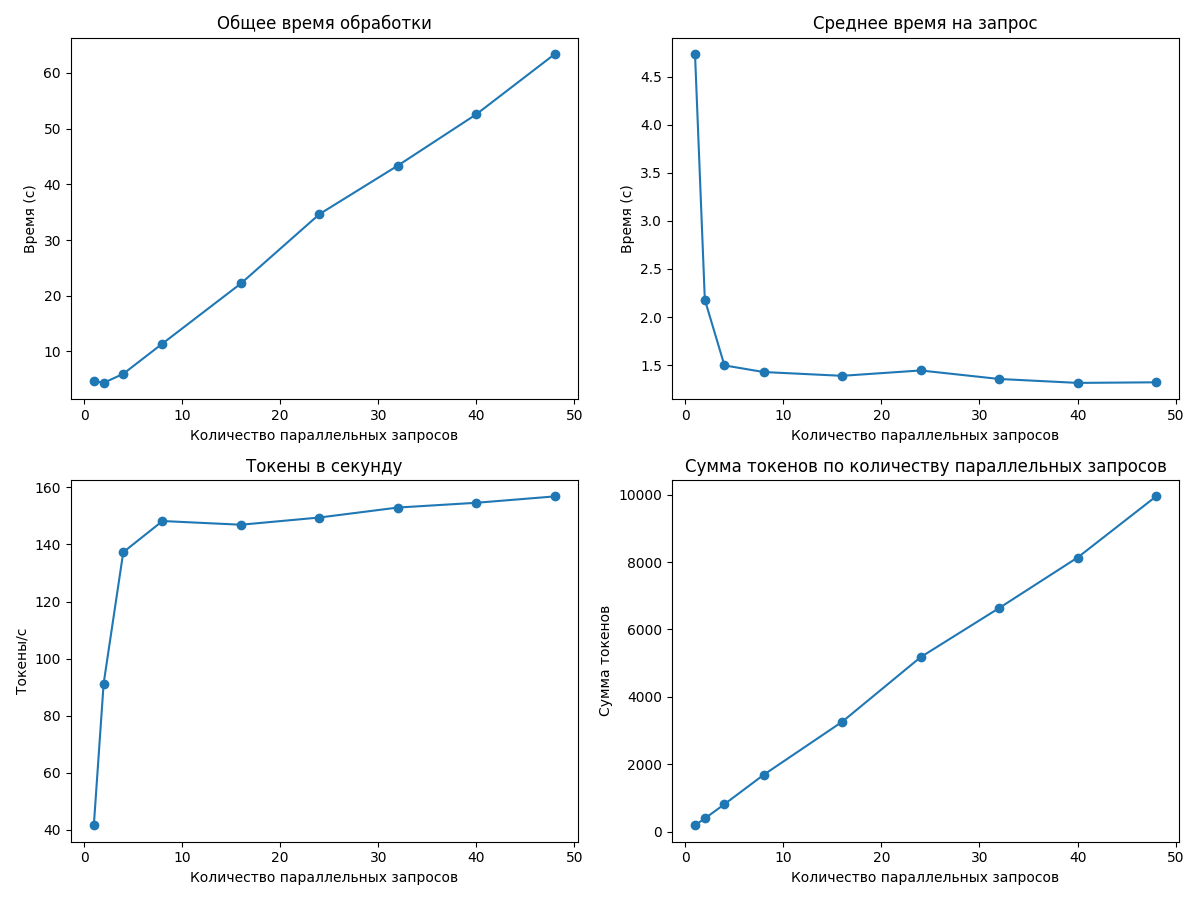
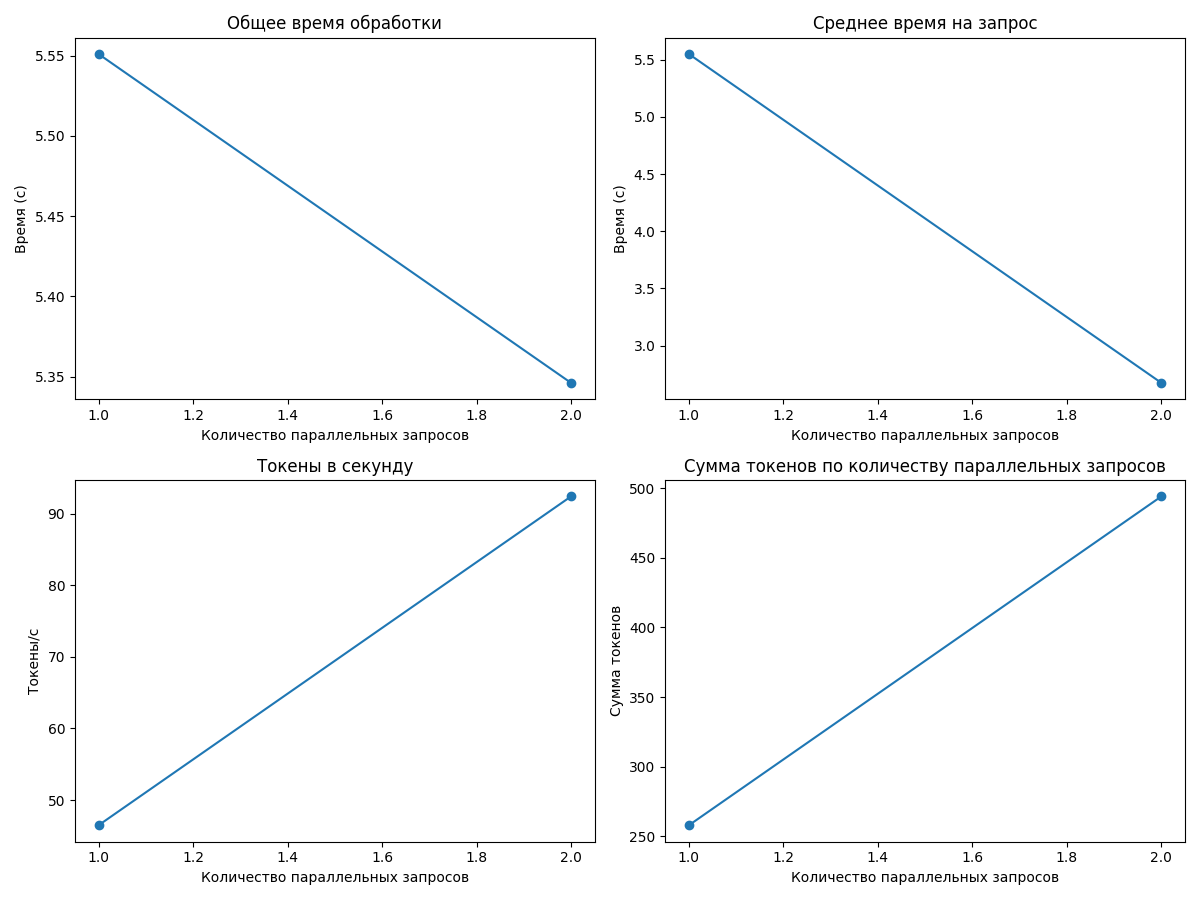
поправил генерацию отчета

diff --git a/check_speed.py b/check_speed.py
@@ -105,7 +105,8 @@ async def main(parallels:int=8, max_requests:int=10):
     # Запускаем ollama в новом окне консоли
     ollama_process = subprocess.Popen([ollama_path, "serve"], 
                                       env=clean_env, 
-                                      creationflags=subprocess.CREATE_NEW_CONSOLE)    
+                                      creationflags=subprocess.CREATE_NEW_CONSOLE,
+                                      shell=False)    
     
     print(f"Запущен ollama serve с OLLAMA_NUM_PARALLEL={parallels} в отдельном окне. Ожидание 7 секунд...")
     time.sleep(7) # Даем время на запуск сервера
@@ -139,8 +140,14 @@ async def main(parallels:int=8, max_requests:int=10):
     df.to_csv(f"results/results_{parallels}.csv", index=False)
     
     # Завершение процесса ollama
-    ollama_process.terminate()
-    ollama_process.wait(timeout=5)
+    try:
+        print("Завершаю процесс ollama...")
+        # Используем taskkill для принудительного завершения процесса ollama
+        subprocess.run(["taskkill", "/F", "/IM", "ollama.exe"], 
+                      stdout=subprocess.PIPE, stderr=subprocess.PIPE)
+        print("Процесс ollama завершен")
+    except Exception as e:
+        print(f"Ошибка при завершении процесса ollama: {e}")
     
     
     
@@ -179,41 +186,42 @@ async def main(parallels:int=8, max_requests:int=10):
 
 if __name__ == "__main__":
     start_time_all = time.time()
-    start_time = time.time()
-    # print("Запуск проверки скорости для 4 параллельных запросов (до 50 запросов)")
-    # asyncio.run(main(parallels=4, max_requests=50))
-    # end_time = time.time()
-
-    # print("Запуск проверки скорости для 6 параллельных запросов (до 50 запросов)")
-    # start_time = time.time()
-    # asyncio.run(main(parallels=6, max_requests=50))
-    # end_time = time.time()
-
-    # print("Запуск проверки скорости для 8 параллельных запросов (до 50 запросов)")
-    # start_time = time.time()
-    # asyncio.run(main(parallels=8, max_requests=50))
-    # end_time = time.time()
-
-    print("Запуск проверки скорости для 10 параллельных запросов (до 50 запросов)")
-    start_time = time.time()
-    asyncio.run(main(parallels=10, max_requests=50))
-    end_time = time.time()
-
-    print("Запуск проверки скорости для 12 параллельных запросов (до 50 запросов)")
-    start_time = time.time()
-    asyncio.run(main(parallels=12, max_requests=50))
-    end_time = time.time()
-
-    print(f"Завершено за {(end_time - start_time):.2f} секунд")
-    start_time = time.time()
-    print("Запуск проверки скорости для 15 параллельных запросов (до 50 запросов)")
-    asyncio.run(main(parallels=15, max_requests=50))
-    end_time = time.time()
     
-    print(f"Завершено за {(end_time - start_time):.2f} секунд")
     start_time = time.time()
-    print("Запуск проверки скорости для 20 параллельных запросов (до 50 запросов)")
-    asyncio.run(main(parallels=20, max_requests=50))
+    print("Запуск проверки скорости для 4 параллельных запросов (до 30 запросов)")
+    asyncio.run(main(parallels=4, max_requests=30))
+    end_time = time.time()
+
+    print("Запуск проверки скорости для 6 параллельных запросов (до 30 запросов)")
+    start_time = time.time()
+    asyncio.run(main(parallels=6, max_requests=30))
+    end_time = time.time()
+
+    print("Запуск проверки скорости для 8 параллельных запросов (до 30 запросов)")
+    start_time = time.time()
+    asyncio.run(main(parallels=8, max_requests=30))
+    end_time = time.time()
+
+    print("Запуск проверки скорости для 10 параллельных запросов (до 30 запросов)")
+    start_time = time.time()
+    asyncio.run(main(parallels=10, max_requests=30))
+    end_time = time.time()
+
+    print("Запуск проверки скорости для 12 параллельных запросов (до 30 запросов)")
+    start_time = time.time()
+    asyncio.run(main(parallels=12, max_requests=30))
+    end_time = time.time()
+    print(f"Завершено за {(end_time - start_time):.2f} секунд")
+    
+    start_time = time.time()
+    print("Запуск проверки скорости для 15 параллельных запросов (до 30 запросов)")
+    asyncio.run(main(parallels=15, max_requests=30))
+    end_time = time.time()
+    print(f"Завершено за {(end_time - start_time):.2f} секунд")
+    
+    start_time = time.time()
+    print("Запуск проверки скорости для 20 параллельных запросов (до 30 запросов)")
+    asyncio.run(main(parallels=20, max_requests=30))
     end_time = time.time()
     print(f"Завершено за {(end_time - start_time):.2f} секунд")
 

diff --git a/report.md b/report.md
@@ -6,15 +6,19 @@
 
 |   Количество параллельных запросов |   Оптимальный размер пакета |   Максимальная скорость (токены/сек) |
 |-----------------------------------:|----------------------------:|-------------------------------------:|
-|                                  4 |                          48 |                             156.852  |
+|                                  4 |                           2 |                              92.4022 |
 |                                  6 |                          48 |                             189.129  |
-|                                  8 |                          48 |                              22.5313 |
+|                                  8 |                          16 |                             201.297  |
+|                                 10 |                          24 |                             219.66   |
+|                                 12 |                          24 |                             247.47   |
+|                                 15 |                          24 |                              66.6348 |
+|                                 20 |                          16 |                             238.849  |
 
 ### Наилучшая конфигурация для данного оборудования
 
-- **Количество параллельных запросов:** 6
-- **Оптимальный размер пакета:** 48
-- **Скорость обработки:** 189.13 токенов/сек
+- **Количество параллельных запросов:** 12
+- **Оптимальный размер пакета:** 24
+- **Скорость обработки:** 247.47 токенов/сек
 
 ---
 
@@ -28,19 +32,12 @@
 
 |   Количество параллельных запросов |   Общее время (с) |   Среднее время на запрос (с) |   Токены в секунду |   Сумма токенов |
 |-----------------------------------:|------------------:|------------------------------:|-------------------:|----------------:|
-|                                  1 |           4.73508 |                       4.73508 |            41.6043 |             197 |
-|                                  2 |           4.36085 |                       2.18042 |            91.2667 |             398 |
-|                                  4 |           5.98724 |                       1.49681 |           137.292  |             822 |
-|                                  8 |          11.4224  |                       1.4278  |           148.218  |            1693 |
-|                                 16 |          22.2155  |                       1.38847 |           146.925  |            3264 |
-|                                 24 |          34.6596  |                       1.44415 |           149.454  |            5180 |
-|                                 32 |          43.3811  |                       1.35566 |           152.947  |            6635 |
-|                                 40 |          52.5944  |                       1.31486 |           154.617  |            8132 |
-|                                 48 |          63.4037  |                       1.32091 |           156.852  |            9945 |
+|                                  1 |           5.55094 |                       5.55094 |            46.4786 |             258 |
+|                                  2 |           5.34619 |                       2.6731  |            92.4022 |             494 |
 
-**Оптимальный размер пакета:** 48
+**Оптимальный размер пакета:** 2
 
-**Максимальная скорость обработки:** 156.85 токенов в секунду
+**Максимальная скорость обработки:** 92.40 токенов в секунду
 
 ---
 
@@ -76,19 +73,100 @@
 
 |   Количество параллельных запросов |   Общее время (с) |   Среднее время на запрос (с) |   Токены в секунду |   Сумма токенов |
 |-----------------------------------:|------------------:|------------------------------:|-------------------:|----------------:|
-|                                  1 |           14.7276 |                      14.7276  |            15.6848 |             231 |
-|                                  2 |           20.883  |                      10.4415  |            19.0107 |             397 |
-|                                  4 |           46.5732 |                      11.6433  |            18.6159 |             867 |
-|                                  8 |           76.3533 |                       9.54416 |            22.1732 |            1693 |
-|                                 16 |          162.104  |                      10.1315  |            21.844  |            3541 |
-|                                 24 |          228.459  |                       9.51911 |            22.2316 |            5079 |
-|                                 32 |          281.645  |                       8.8014  |            22.4787 |            6331 |
-|                                 40 |          370.464  |                       9.2616  |            22.372  |            8288 |
-|                                 48 |          439.033  |                       9.14653 |            22.5313 |            9892 |
+|                                  1 |           5.15201 |                       5.15201 |            44.4486 |             229 |
+|                                  2 |           4.97919 |                       2.4896  |            86.9619 |             433 |
+|                                  4 |           6.04807 |                       1.51202 |           131.612  |             796 |
+|                                  8 |           9.2728  |                       1.1591  |           177.185  |            1643 |
+|                                 16 |          16.9004  |                       1.05627 |           201.297  |            3402 |
+|                                 24 |          25.738   |                       1.07242 |           194.265  |            5000 |
 
-**Оптимальный размер пакета:** 48
+**Оптимальный размер пакета:** 16
 
-**Максимальная скорость обработки:** 22.53 токенов в секунду
+**Максимальная скорость обработки:** 201.30 токенов в секунду
+
+---
+
+### Результаты для 10 параллельных запросов
+
+![График производительности для 10 параллельных запросов](results/performance_metrics_10.png)
+
+#### Таблица результатов
+
+|   Количество параллельных запросов |   Общее время (с) |   Среднее время на запрос (с) |   Токены в секунду |   Сумма токенов |
+|-----------------------------------:|------------------:|------------------------------:|-------------------:|----------------:|
+|                                  1 |           4.08767 |                      4.08767  |            39.876  |             163 |
+|                                  2 |           4.87506 |                      2.43753  |            91.8962 |             448 |
+|                                  4 |           6.32661 |                      1.58165  |           137.514  |             870 |
+|                                  8 |           9.05322 |                      1.13165  |           177.064  |            1603 |
+|                                 16 |          16.0674  |                      1.00421  |           206.256  |            3314 |
+|                                 24 |          22.8262  |                      0.951091 |           219.66   |            5014 |
+
+**Оптимальный размер пакета:** 24
+
+**Максимальная скорость обработки:** 219.66 токенов в секунду
+
+---
+
+### Результаты для 12 параллельных запросов
+
+![График производительности для 12 параллельных запросов](results/performance_metrics_12.png)
+
+#### Таблица результатов
+
+|   Количество параллельных запросов |   Общее время (с) |   Среднее время на запрос (с) |   Токены в секунду |   Сумма токенов |
+|-----------------------------------:|------------------:|------------------------------:|-------------------:|----------------:|
+|                                  1 |           4.63299 |                      4.63299  |            41.0102 |             190 |
+|                                  2 |           5.19462 |                      2.59731  |            87.3982 |             454 |
+|                                  4 |           6.39292 |                      1.59823  |           133.429  |             853 |
+|                                  8 |           9.63804 |                      1.20475  |           171.923  |            1657 |
+|                                 16 |          16.6832  |                      1.0427   |           199.902  |            3335 |
+|                                 24 |          19.9903  |                      0.832931 |           247.47   |            4947 |
+
+**Оптимальный размер пакета:** 24
+
+**Максимальная скорость обработки:** 247.47 токенов в секунду
+
+---
+
+### Результаты для 15 параллельных запросов
+
+![График производительности для 15 параллельных запросов](results/performance_metrics_15.png)
+
+#### Таблица результатов
+
+|   Количество параллельных запросов |   Общее время (с) |   Среднее время на запрос (с) |   Токены в секунду |   Сумма токенов |
+|-----------------------------------:|------------------:|------------------------------:|-------------------:|----------------:|
+|                                  1 |           6.6523  |                       6.6523  |            24.5028 |             163 |
+|                                  2 |           8.70186 |                       4.35093 |            47.8059 |             416 |
+|                                  4 |          15.8851  |                       3.97128 |            53.4462 |             849 |
+|                                  8 |          25.7102  |                       3.21377 |            61.7654 |            1588 |
+|                                 16 |          51.4337  |                       3.21461 |            64.7435 |            3330 |
+|                                 24 |          72.4396  |                       3.01832 |            66.6348 |            4827 |
+
+**Оптимальный размер пакета:** 24
+
+**Максимальная скорость обработки:** 66.63 токенов в секунду
+
+---
+
+### Результаты для 20 параллельных запросов
+
+![График производительности для 20 параллельных запросов](results/performance_metrics_20.png)
+
+#### Таблица результатов
+
+|   Количество параллельных запросов |   Общее время (с) |   Среднее время на запрос (с) |   Токены в секунду |   Сумма токенов |
+|-----------------------------------:|------------------:|------------------------------:|-------------------:|----------------:|
+|                                  1 |           5.15044 |                      5.15044  |            44.2681 |             228 |
+|                                  2 |           4.54635 |                      2.27318  |            87.9826 |             400 |
+|                                  4 |           6.00232 |                      1.50058  |           130.45   |             783 |
+|                                  8 |           8.5801  |                      1.07251  |           186.245  |            1598 |
+|                                 16 |          14.1177  |                      0.882358 |           238.849  |            3372 |
+|                                 24 |          21.1606  |                      0.881691 |           237.422  |            5024 |
+
+**Оптимальный размер пакета:** 16
+
+**Максимальная скорость обработки:** 238.85 токенов в секунду
 
 ---
 
